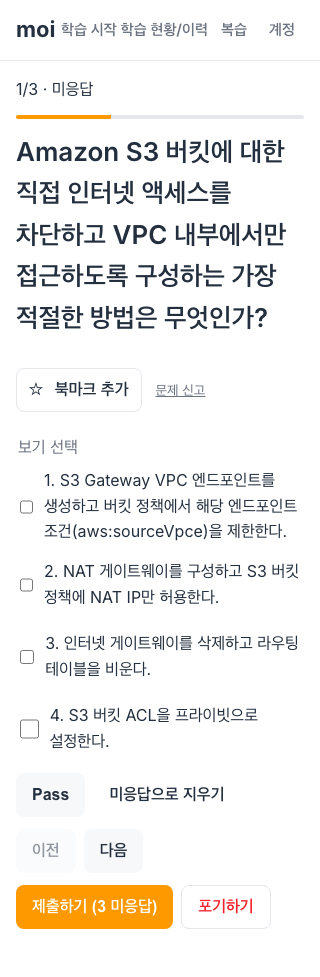
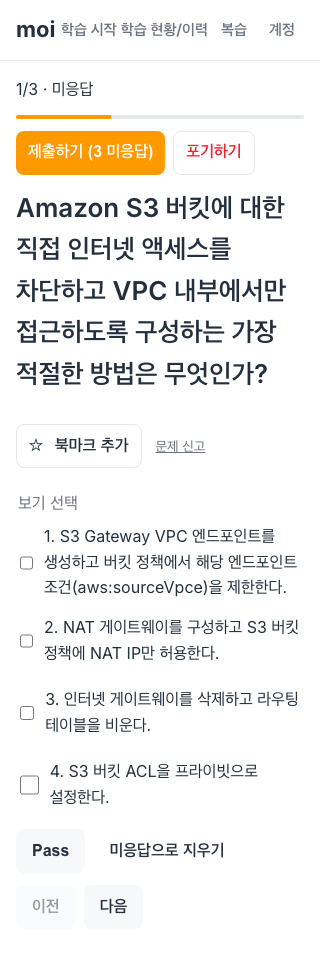
fix: 풀이 화면 제출·포기 버튼을 상단으로 이동 (#186)
- 진행 표시(progress/progressbar) 직후에 제출(primary)·포기(outline destructive) 상단 액션 행 추가
- 하단 제출·포기 블록 제거, 제출 실패 알림은 상단 액션 바로 아래로 이동
- 상단 행은 size=sm(44px 터치)·flex-wrap·gap 8로 320px 한 줄 배치
- 보기 목록·Pass/Clear·저장 상태·이전/다음 순서 유지, 확인 대화상자 흐름 유지
- study-active 320~1280 캡처 갱신(가로 오버플로 0)

diff --git a/tests/ui/study-buttons.test.tsx b/tests/ui/study-buttons.test.tsx
@@ -103,8 +103,11 @@ function tokens(el: Element): string[] {
   return (el.getAttribute('class') ?? '').split(/\s+/).filter(Boolean);
 }
 
-// 같은 의미의 버튼은 높이·패딩·폰트가 같아야 한다 (DESIGN.md 5절).
-const SIZE_TOKENS = ['h-11', 'min-h-[44px]', 'px-4', 'text-sm'];
+// 같은 의미의 버튼은 높이·폰트가 같아야 한다 (DESIGN.md 5절).
+const SIZE_TOKENS = ['h-11', 'min-h-[44px]', 'text-sm'];
+// 풀이·탐색 버튼은 기본 패딩, 상단 제출·포기는 320px 한 줄 배치를 위한 컴팩트 패딩 (#186).
+const DEFAULT_PADDING = 'px-4';
+const TOP_ACTION_PADDING = 'px-3';
 
 beforeEach(() => {
   window.history.replaceState(null, '', '/');
@@ -144,10 +147,13 @@ describe('학습 화면 버튼 위계', () => {
     expect(tokens(abandon)).toContain('text-destructive');
     expect(tokens(abandon)).toContain('border');
 
-    // 같은 의미의 버튼은 동일 크기(터치 타깃 44px)·동일 패딩·폰트.
+    // 같은 의미의 버튼은 동일 크기(터치 타깃 44px)·동일 폰트.
     for (const el of [submit, pass, clear, prev, next, abandon]) {
       for (const t of SIZE_TOKENS) expect(tokens(el)).toContain(t);
     }
+    // 풀이·탐색 버튼은 기본 패딩, 상단 제출·포기는 컴팩트 패딩(320px 한 줄 배치, #186).
+    for (const el of [pass, clear, prev, next]) expect(tokens(el)).toContain(DEFAULT_PADDING);
+    for (const el of [submit, abandon]) expect(tokens(el)).toContain(TOP_ACTION_PADDING);
   });
 
   it('풀이 화면: 이전/다음 disabled 상태가 유지된다', async () => {
@@ -187,6 +193,41 @@ describe('학습 화면 버튼 위계', () => {
 
     await waitFor(() => expect(screen.getByText(/3\/3 · Pass/)).toBeInTheDocument());
     expect(screen.getByText('문제 2 본문')).toBeInTheDocument();
+  });
+
+  it('제출·포기 버튼이 문제 본문보다 상단(진행 표시 직후)에 온다(#186)', async () => {
+    renderStudy(fakeStudyClient());
+    fireEvent.click(await screen.findByRole('button', { name: '학습 시작' }));
+    await screen.findByText(/1\/3/);
+
+    const progress = screen.getByText(/1\/3/);
+    const submit = screen.getByRole('button', { name: /제출하기/ });
+    const abandon = screen.getByRole('button', { name: '포기하기' });
+    const stem = screen.getByText('문제 0 본문');
+    const before = (a: Element, b: Element) =>
+      (a.compareDocumentPosition(b) & Node.DOCUMENT_POSITION_FOLLOWING) !== 0;
+
+    expect(before(progress, submit)).toBe(true); // 진행 표시 → 제출
+    expect(before(submit, abandon)).toBe(true); // 제출 → 포기
+    expect(before(abandon, stem)).toBe(true); // 포기 → 문제 본문
+    expect(screen.getByRole('button', { name: /제출하기 \(3 미응답\)/ })).toBeInTheDocument();
+  });
+
+  it('상단 제출·포기 클릭 시 확인 대화상자 흐름이 유지된다(#186)', async () => {
+    renderStudy(fakeStudyClient());
+    fireEvent.click(await screen.findByRole('button', { name: '학습 시작' }));
+    await screen.findByText(/1\/3/);
+
+    fireEvent.click(screen.getByRole('button', { name: /제출하기/ }));
+    expect(await screen.findByRole('alertdialog', { name: '제출 확인' })).toBeInTheDocument();
+    expect(screen.getByText(/풀지 않은 문제가 있습니다/)).toBeInTheDocument();
+
+    fireEvent.click(screen.getByRole('button', { name: '취소' }));
+    expect(screen.queryByRole('alertdialog', { name: '제출 확인' })).not.toBeInTheDocument();
+
+    fireEvent.click(screen.getByRole('button', { name: '포기하기' }));
+    expect(await screen.findByRole('alertdialog', { name: '포기 확인' })).toBeInTheDocument();
+    expect(screen.getByText(/정말 포기할까요/)).toBeInTheDocument();
   });
 
   it('결과 화면: 새 세트 시작=primary·학습 이력·오답 복습=secondary(같은 크기)', async () => {

diff --git a/src/ui/study/QuestionView.tsx b/src/ui/study/QuestionView.tsx
@@ -67,6 +67,29 @@ export function QuestionView(p: Props) {
       <div className="moi-study-progressbar" aria-hidden="true">
         <span style={{ width: `${Math.round(((p.index + 1) / total) * 100)}%` }} />
       </div>
+      {/* 상단 액션 — 제출·포기 (#186): 스크롤 없이 바로 닿도록 진행 표시 직후에 둔다. */}
+      <div className="moi-study-question-top">
+        <Button
+          type="button"
+          variant="primary"
+          size="sm"
+          disabled={p.submitting}
+          pending={p.submitting}
+          onClick={p.onSubmitRequest}
+        >
+          {copy.study.submit}
+          {p.unansweredCount > 0 ? ` (${p.unansweredCount} 미응답)` : ''}
+        </Button>
+        <Button type="button" variant="outline" size="sm" className="text-destructive" onClick={p.onAbandonRequest}>
+          {copy.study.abandon}
+        </Button>
+      </div>
+      {/* 제출 실패 알림 — 상단 액션 바로 아래에서 보인다 (#186). */}
+      {p.submitError && (
+        <div className="moi-alert moi-alert-error" role="alert">
+          <p className="moi-alert-text">{p.submitError}</p>
+        </div>
+      )}
       <h2 className="moi-study-title">{item.stem}</h2>
       <p className="moi-note">
         <BookmarkButton client={p.client} examId={p.examId ?? STUDY_EXAM_ID} questionId={item.questionId} />
@@ -107,11 +130,6 @@ export function QuestionView(p: Props) {
           )}
         </p>
       )}
-      {p.submitError && (
-        <div className="moi-alert moi-alert-error" role="alert">
-          <p className="moi-alert-text">{p.submitError}</p>
-        </div>
-      )}
       {/* [이전][다음]은 같은 크기·같은 variant의 secondary. */}
       <div className="moi-study-nav">
         <Button type="button" variant="secondary" disabled={p.index === 0} onClick={() => p.onIndex(p.index - 1)}>
@@ -124,22 +142,6 @@ export function QuestionView(p: Props) {
           onClick={() => p.onIndex(p.index + 1)}
         >
           {copy.study.next}
-        </Button>
-      </div>
-      {/* 제출=primary(최종 제출), 포기=destructive 계열(강도 낮게) — 확인 대화상자에서 확정. */}
-      <div className="moi-study-actions">
-        <Button
-          type="button"
-          variant="primary"
-          disabled={p.submitting}
-          pending={p.submitting}
-          onClick={p.onSubmitRequest}
-        >
-          {copy.study.submit}
-          {p.unansweredCount > 0 ? ` (${p.unansweredCount} 미응답)` : ''}
-        </Button>
-        <Button type="button" variant="outline" className="text-destructive" onClick={p.onAbandonRequest}>
-          {copy.study.abandon}
         </Button>
       </div>
     </section>

diff --git a/src/ui/study/study.css b/src/ui/study/study.css
@@ -181,3 +181,13 @@
   height: 100%;
   background: var(--moi-color-orange);
 }
+/* 상단 제출·포기 액션 행 — 배경·테두리 없이 여백만, 좁은 화면은 줄바꿈 허용 (#186). */
+.moi-study-question-top {
+  display: flex;
+  flex-direction: row;
+  flex-wrap: wrap;
+  align-items: center;
+  justify-content: flex-start;
+  gap: var(--moi-space-2);
+  width: 100%;
+}
